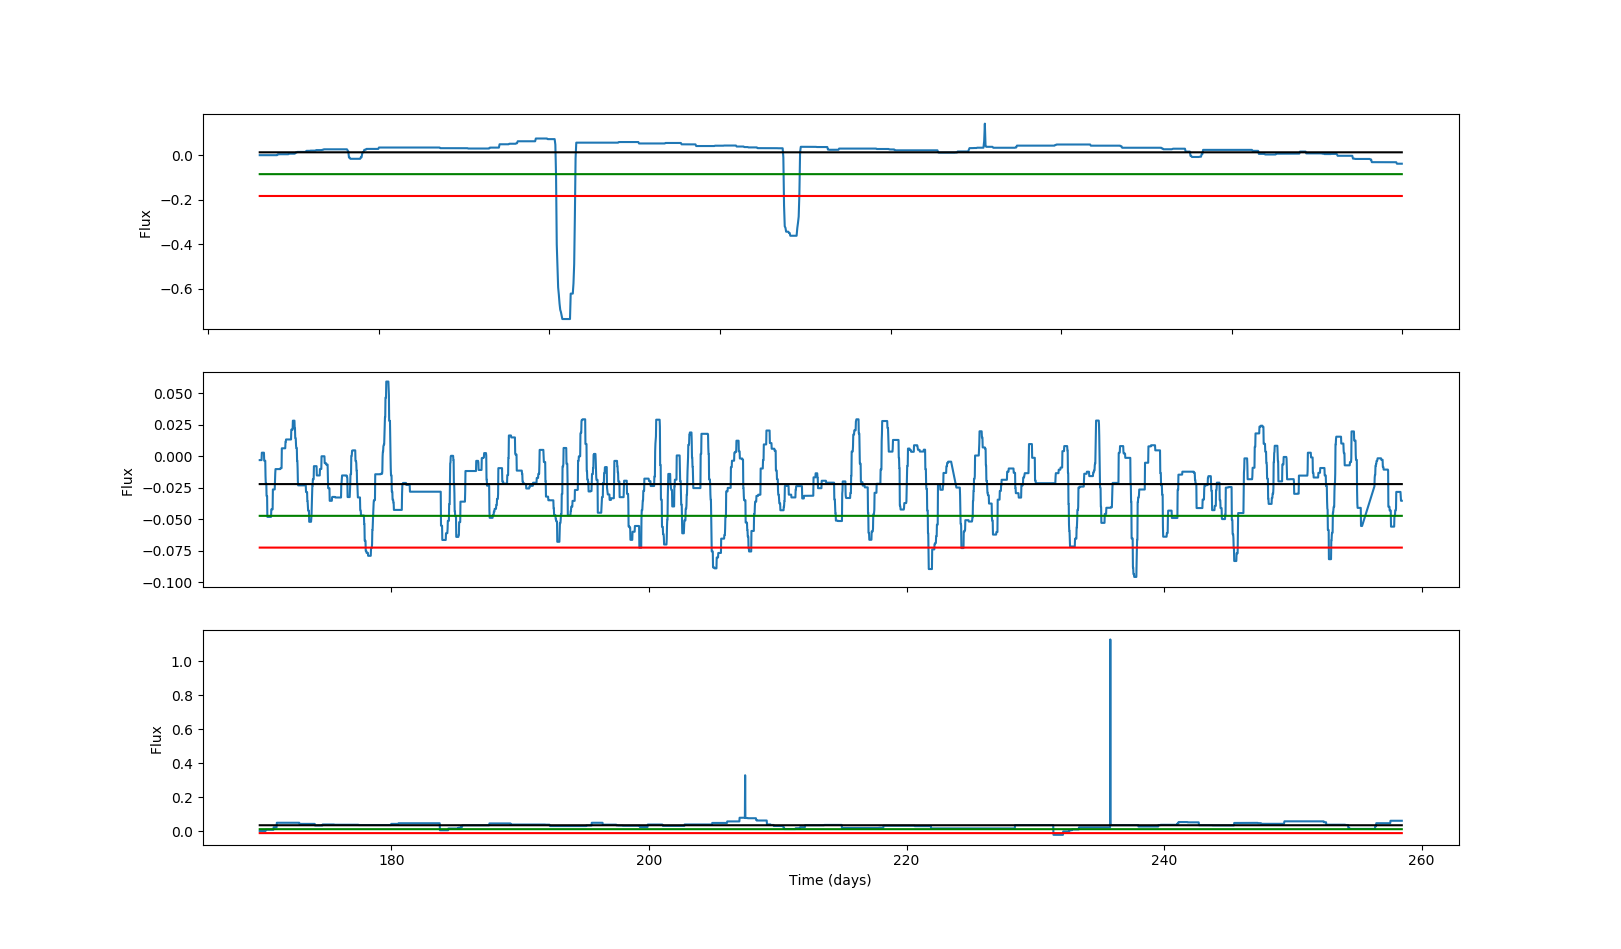
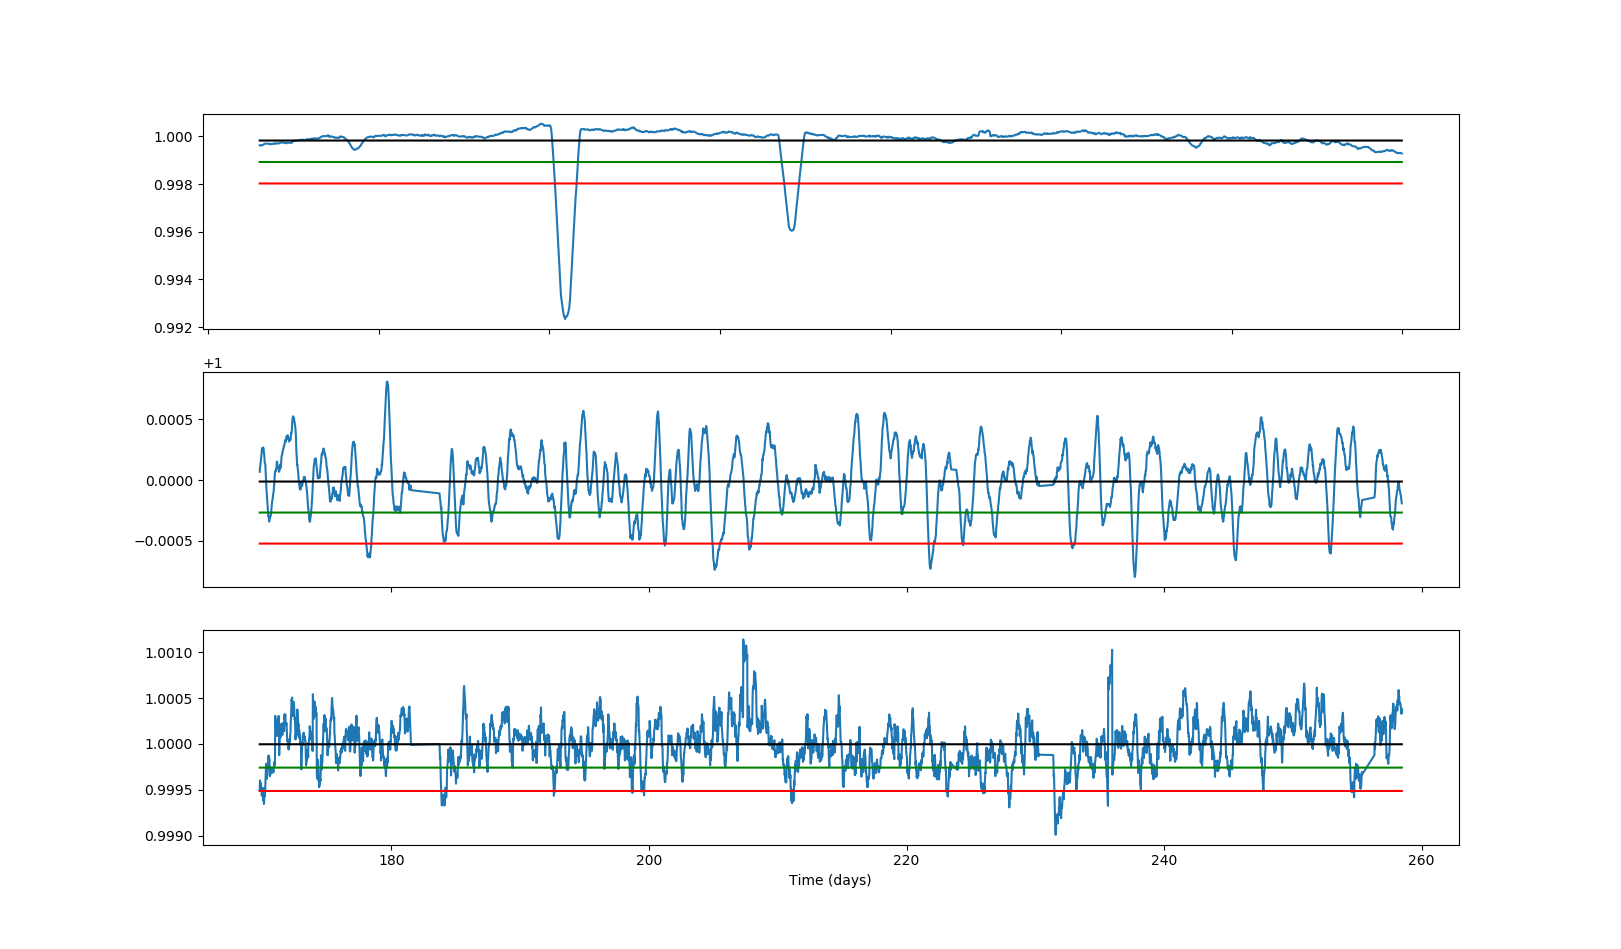
earth++

diff --git a/data/dataFunctions/dataTester.py b/data/dataFunctions/dataTester.py
@@ -31,7 +31,7 @@ dataFiles = [fname_PC, fname_NTP, fname_AFP]
 
 # ------------------------------------------- FITS File Manipulation ------------------------------------
 dir = "/home/jcneves/Documents/keplerData"
-kepID = 5796675
+kepID = 11442793
 
 filenames = dr.filenameWarehouse(kepID,dir)
 time, flux = dr.fitsConverter(filenames)
@@ -63,49 +63,42 @@ kepids_AFP=[1162345, 892772, 1026957, 1160891, 1162150, 1162345, 1573174, 157569
 
 # ------------------------------------------ Cleaner -----------------------------------------------------
 #print(len(flux))
-f1 = ptv.tv1_1d(flux[0],30)
+#f1 = ptv.tv1_1d(flux[0],30)
 
-s=dc.percentageChange(flux[0],15)
-#plt.plot(time[0],s)
-#plt.show()
+#val = dc.movingAverage(flux[0],15)
+#s=dc.percentageChange(flux[0],val)
+#lc=lk.LightCurve(time[0],val)
+#ret = lc.normalize()
+#val = ret.flux
 
-lc=lk.LightCurve(time[0],f1)
-ret = lc.normalize()
-ret.flatten()
-f1=ret.flux
-s=dc.percentageChange(f1,15)
+#lc=lk.LightCurve(time[0],f1)
+#ret = lc.normalize()
+#ret.flatten()
+#f1=ret.flux
+#s=dc.percentageChange(f1,15)
 
-#plt.plot(time[0],s)
-#plt.show()
-t = [1,2,3,4]
-def running(seq,window):
-        s = np.insert(np.cumsum(seq),0,[0])
-        return (s[window:]-s[:-window])*(1./window)
 
-#mv=[1,2,3,4]
-#mm=running(mv,2)
-#plt.scatter(t,mm)
 
 #plt.plot(time[0],flux[0],'k')
 #plt.plot(time[0],f1,'-g')
 #print(min(f1))
-std=np.std(f1)
-mean=np.mean(f1)
-indexes,prop=signal.find_peaks(-f1,-(mean-(2*std)))
-arr=prop['peak_heights']
+#std=np.std(val)
+#mean=np.mean(val)
+#indexes,prop=signal.find_peaks(-f1,-(mean-(2*std)))
+#arr=prop['peak_heights']
 
-a = signal.peak_widths(-f1,indexes)
+#a = signal.peak_widths(-f1,indexes)
 #print(a['width_heights'])
-inv=[]
-for i in prop['peak_heights']:
-        inv.append(i*(-1))
+#inv=[]
+#for i in prop['peak_heights']:
+#        inv.append(i*(-1))
 #print(inv)
 
 
 graphThresholdPC_array=[11442793,4458082,5602588]
 graphThresholdAFP_array= [1162345, 892772, 1026957]
 graphThresholdNTP_array= [892667, 1292087, 1574792]
-da.graphThresholdExamples(graphThresholdPC_array,dir)
+da.graphThresholdExamples(graphThresholdNTP_array,dir)
 
 
 mean_array=[]
@@ -118,8 +111,8 @@ for m in range(len(time[0])):
 for m in range(len(time[0])): 
         mean_twostd.append(mean-(2*std))        
 #plt.plot(time[0],flux[0],'c')     
-plt.plot(time[0],f1,'m')   # Light Curve 
-plt.plot(time[0],mean_array,'k')    # Mean 
-plt.plot(time[0],mean_onestd,'g')   # One Standard Deviation Below The Mean
-plt.plot(time[0],mean_twostd,'r')   # Two Standard Deviations Below The Mean
+#plt.plot(time[0],val,'m')   # Light Curve 
+#plt.plot(time[0],mean_array,'k')    # Mean 
+#plt.plot(time[0],mean_onestd,'g')   # One Standard Deviation Below The Mean
+#plt.plot(time[0],mean_twostd,'r')   # Two Standard Deviations Below The Mean
 #plt.show()

diff --git a/data/dataFunctions/dataCleaner.py b/data/dataFunctions/dataCleaner.py
@@ -1,7 +1,7 @@
 import numpy as np
 import prox_tv as ptv
 
-def moving_average(N,window):
+def movingAverage(N,window):
     '''
         Calculate the moving average of the provided numpy array list
         
@@ -9,18 +9,15 @@ def moving_average(N,window):
         output: array with the corresponding moving average 
     '''
     N_padded = np.pad(N,(window//2,window-1-window//2),mode='edge')
-    middle=int(window/2)+1 # Assuming that the window will always be an odd number
-    res_array=np.convolve(N_padded, np.ones((window,))/window, mode='same')
-    return res_array[middle]
+        
+    return np.convolve(N_padded, np.ones((window,))/window, mode='valid')
     
-def percentageChange(data,window):
+def percentageChange(data,average):
     percentage_change_array = []
-    for i, t in enumerate(data):
-        #print("data={};average={}\n".format(t,f))
-        value = (t-moving_average(data,window))/moving_average(data,window)
-        #print("value={}\n".format(value))
-        #print(value)
-        percentage_change_array.append(value*100)
+    for i, (t,f) in enumerate(zip(data,average)):
+        value = (f-t)/t
+        print("data={};average={};Result={}\n".format(t,f,value))
+        percentage_change_array.append(value)
     #print(percentage_change_array)   
     return percentage_change_array
 

diff --git a/data/planetDetective.py b/data/planetDetective.py
@@ -1,0 +1,46 @@
+import matplotlib.pyplot as plt
+import numpy as np
+import pandas as pd
+
+from dataFunctions import dataCleaner
+from dataFunctions import dataInfo
+from dataFunctions import dataAnalyzer
+from dataFunctions import dataReader
+
+CSV_FILE = "/home/jcneves/Documents/Identifying-Exoplanets-Using-ML/data/q1_q17_dr24_tce_2020.01.28_08.52.13.csv"
+DATA_DIRECTORY = "/home/jcneves/Documents/keplerData"
+
+def getCSVData():
+    return dataInfo.dataCSV(CSV_FILE)
+
+def getKepids(table):
+    return dataInfo.listKepids(table)
+    
+def getLabel(table,kepid):
+    return dataInfo.labelFinder(table,kepid)   
+
+def createFeaturesTable(kepid):
+    '''
+        1. Read and Convert Data
+        2. Clean and Normalize Light Curve
+        3. Get All Features
+            . Data Analyzes
+            . Label
+        4. Return Row of Features
+    '''
+def appendToFile(row):
+    with open('dataset.csv','a') as fd:
+        fd.write(row)   
+
+def main():
+    # Create table
+    with open("dataset.csv", "w") as dataset:
+       pass
+    table=getCSVData()
+    # List of Kepids
+    kepids=getKepids(table)
+    
+    #for id in kepids:
+    #    row = createFeaturesTable(id)
+    
+    appendToFile(row)

diff --git a/data/dataFunctions/dataInfo.py b/data/dataFunctions/dataInfo.py
@@ -1,5 +1,6 @@
 import numpy as np
 import scipy.signal as signal
+import pandas as pd
 
 # Calculate Global Mean
 def getGlobalMean(data):
@@ -42,5 +43,21 @@ def getWeakPeaks(data):
     indexes,peaks=signal.find_peaks(data,height=(np.mean(data-(np.std(data))), np.mean(data)))
     return peaks['peak_heights']
 # Get Points For Each Category
+def categorizedPoints(data):
+    strongPeaks=getStrongPeaks(data)
+    mediumPeaks=getMediumPeaks(data)
+    weakPeaks=getWeakPeaks(data)
+    return strongPeaks,mediumPeaks,weakPeaks
+# Get kepid Label
+def labelFinder(table,kepid):
+    #print(findColumnNumber(table,kepid))
+    for i, r in table.iterrows():
+        if r['kepid'] == kepid:
+            return r['av_training_set']
+#get CSV data
+def dataCSV(filename):
+    return pd.read_csv(filename, skiprows=15 , usecols = [0,8])
 
-
+        
+def listKepids(filename):
+    table = pd.read_csv(filename, skiprows=15 , usecols = [0])

diff --git a/data/dataFunctions/dataAnalyzer.py b/data/dataFunctions/dataAnalyzer.py
@@ -126,12 +126,12 @@ def graphThresholdExamples(kepids,dir):
     for i,files in enumerate(kepids):
         filename = dr.filenameWarehouse(files,dir)
         t,f = dr.fitsConverter(filename)
-        #print(filename[0])
-        f1 = ptv.tv1_1d(f[0],30)
+        f1=dc.movingAverage(f[0],15)
+        #f1 = ptv.tv1_1d(f[0],30)
         lc=lk.LightCurve(t[0],f1)
         ret = lc.normalize()
         f1 = ret.flux
-        f1=dc.percentageChange(f1,2)
+        #f1=dc.percentageChange(f1,2)
         std=np.std(f1)
         mean=np.mean(f1)
         mean_array=[]
@@ -151,6 +151,6 @@ def graphThresholdExamples(kepids,dir):
     
 
     for ax in axs.flat:
-        ax.set(xlabel='Time (days)', ylabel='Flux ')
+        ax.set(xlabel='Time (days)')
         ax.label_outer()
     plt.show()
